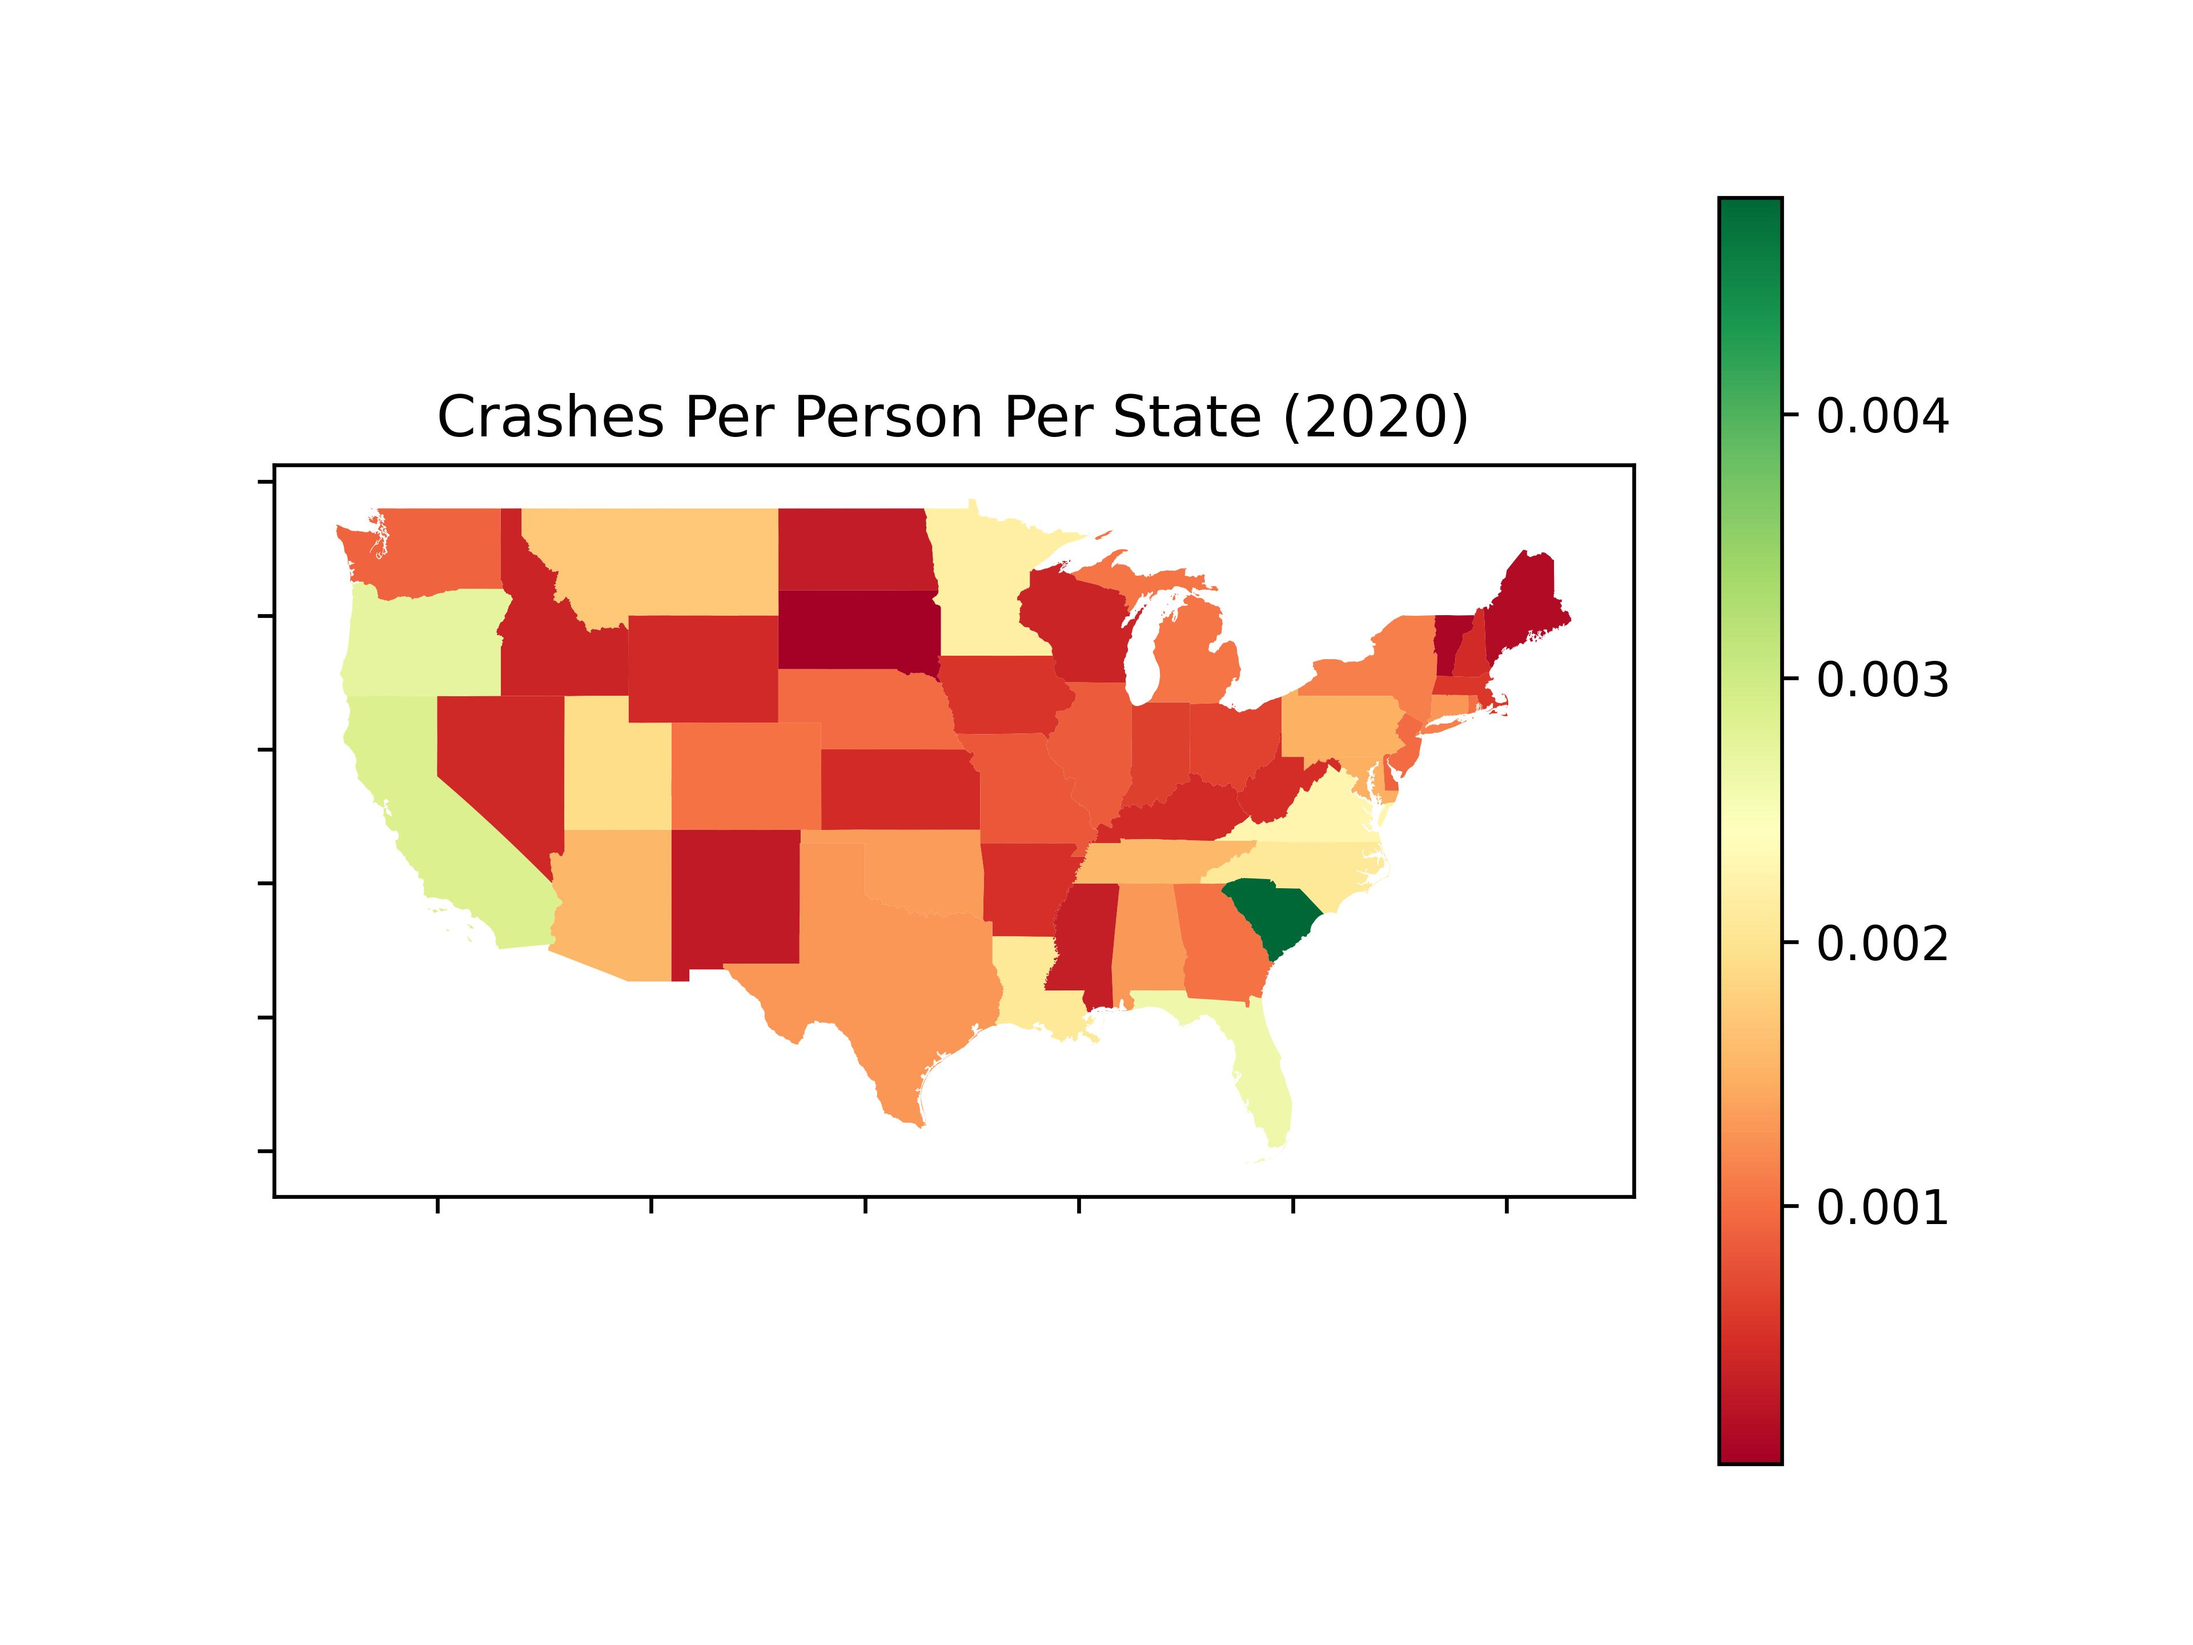
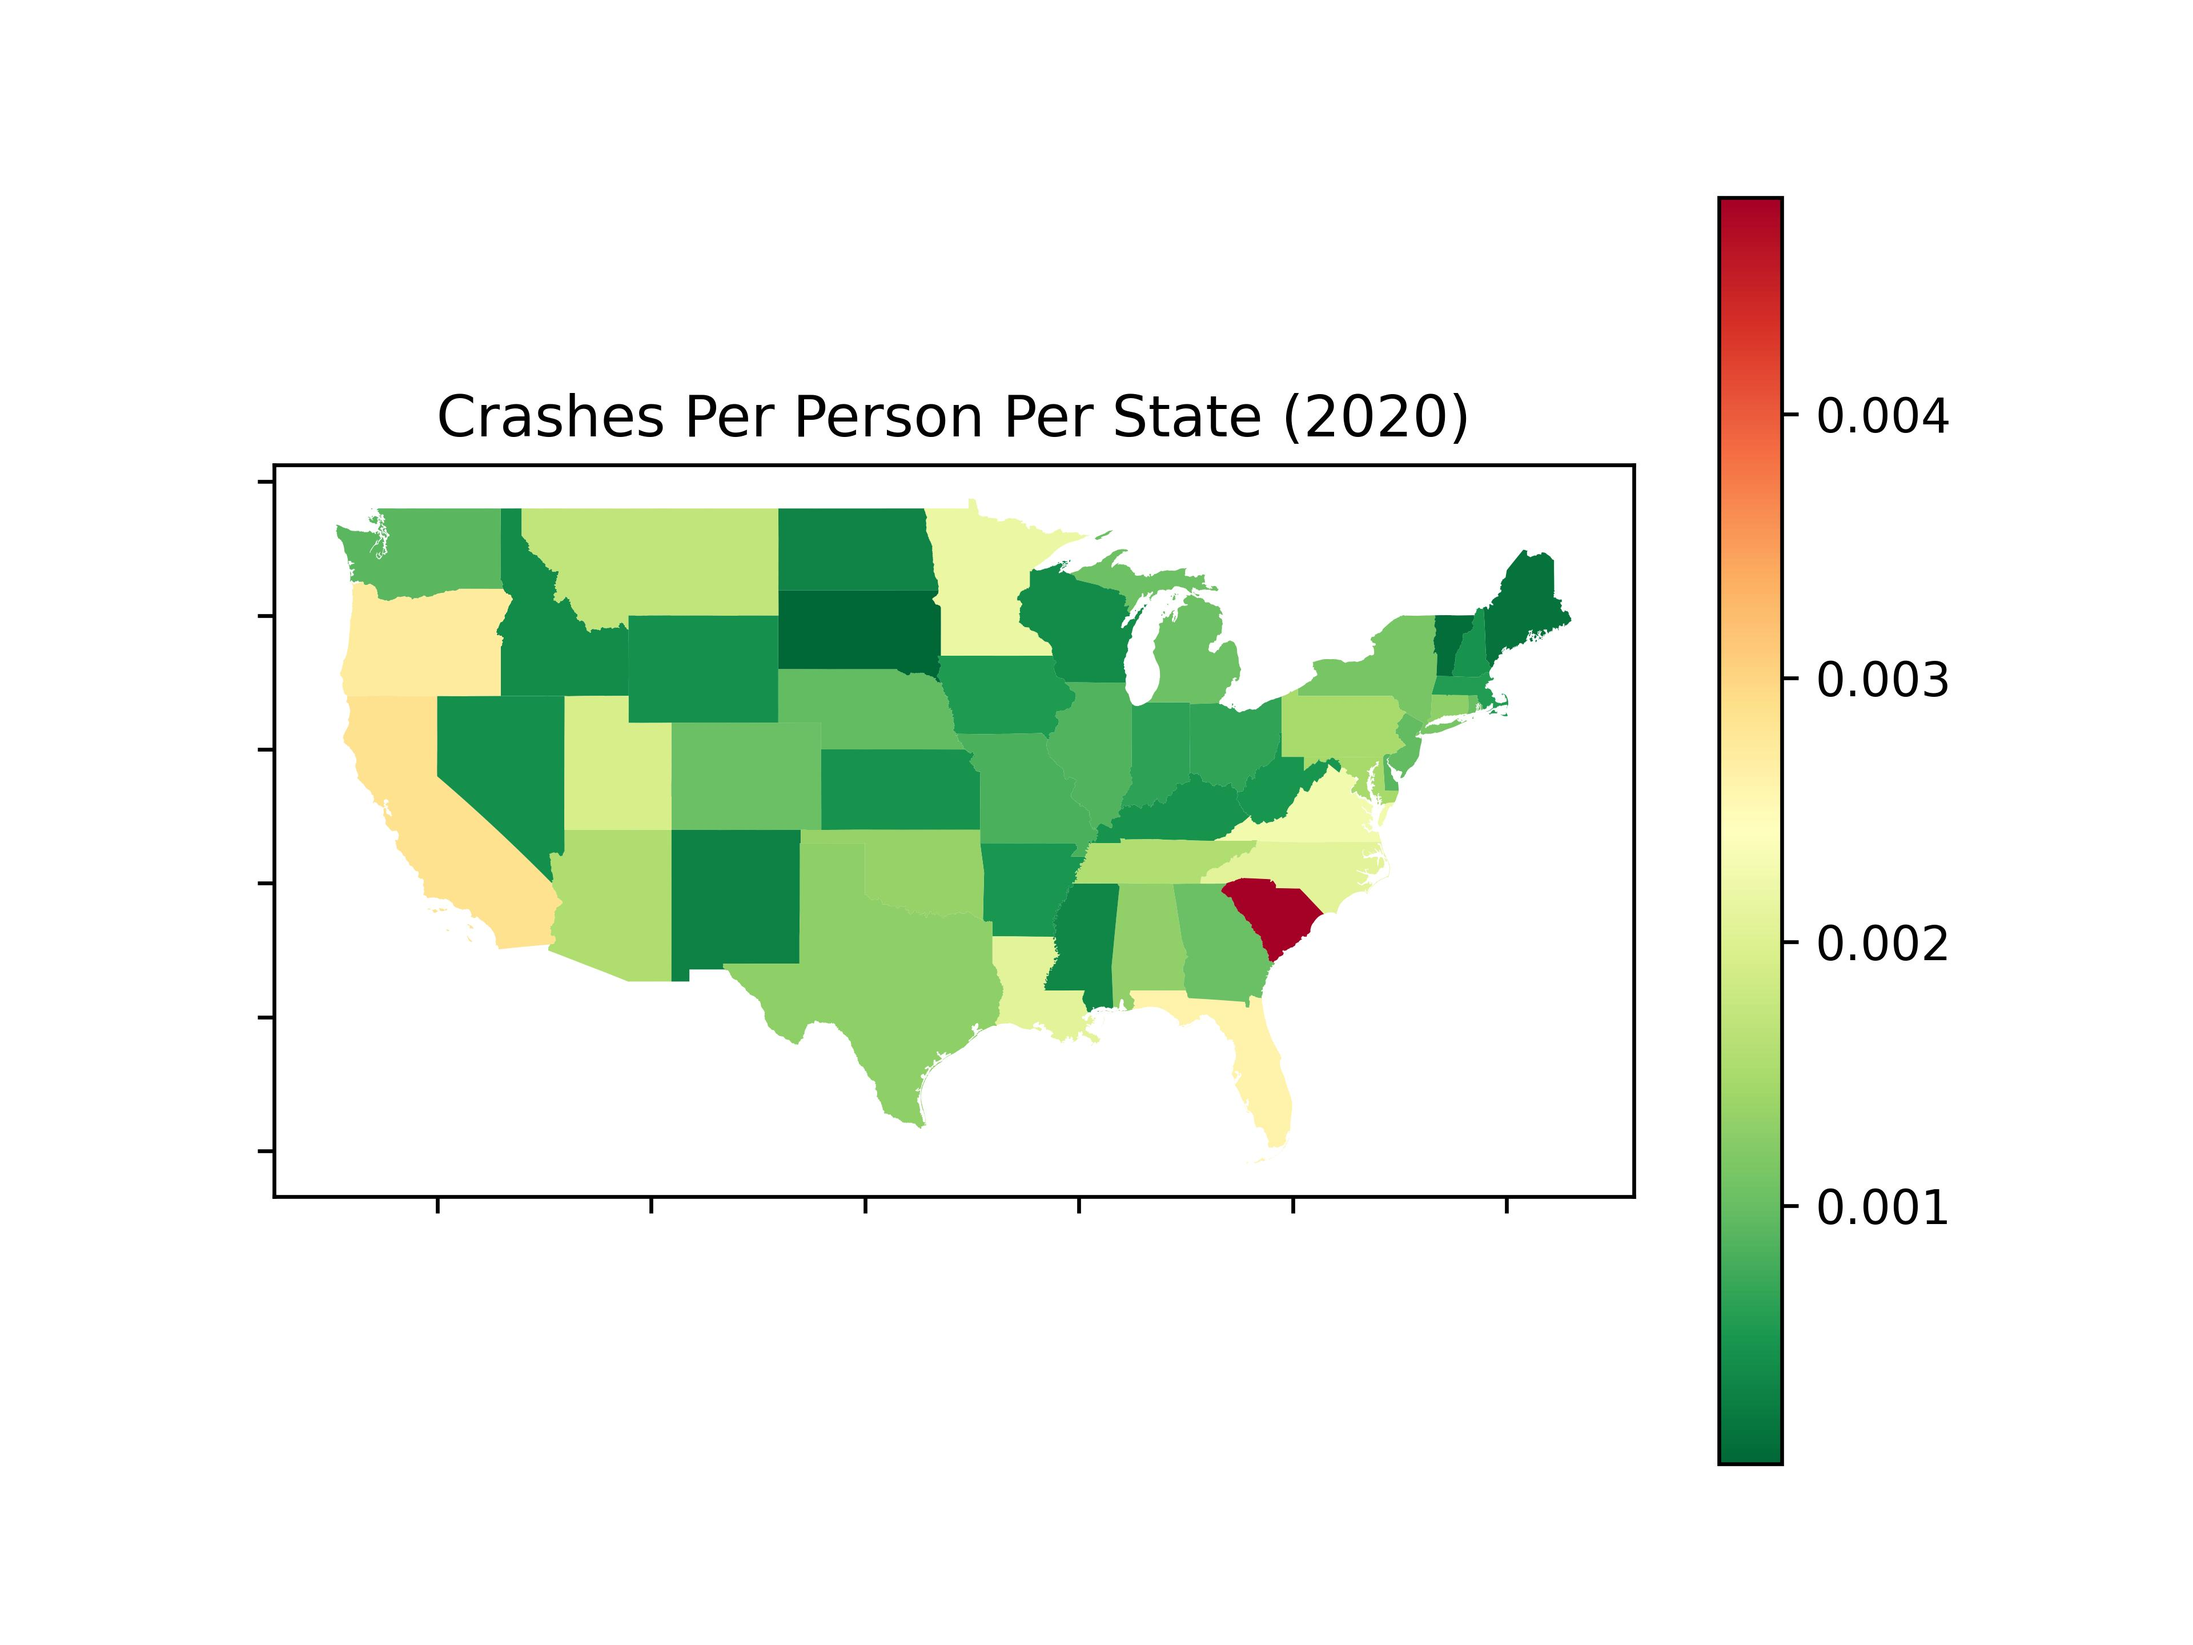
laptop update

Changed region(s): [[0.1562, 0.2812, 0.7188, 0.6875], [0.7812, 0.5312, 0.8125, 0.9062], [0.7812, 0.0938, 0.8125, 0.4688]]

diff --git a/graphs.py b/graphs.py
@@ -72,7 +72,7 @@ def makeGraphs(df,country,highgdf):
     ax.set_yticklabels([])
     ax.set_xticklabels([])
     plt.title('Crash Locations in the US visualized February 2016 to Dec 2020')
-    gdf2.plot(aspect=1,ax=ax,markersize=0.1,cmap='RdYlGn') #column="POP2010"
+    gdf2.plot(aspect=1,ax=ax,markersize=0.1,cmap='RdYlGn_r') #column="POP2010"
     plt.savefig('america.jpg', dpi=600)
 
     #show crashes per state
@@ -87,7 +87,7 @@ def makeGraphs(df,country,highgdf):
     #turn off tick lables, as they aren't usefull
     ax.set_yticklabels([])
     ax.set_xticklabels([])
-    country2.plot(column = 'ID',ax=ax,legend=True,cmap="RdYlGn")
+    country2.plot(column = 'ID',ax=ax,legend=True,cmap="RdYlGn_r")
 
     #plt.xlabel('x label')
     #plt.ylabel('y label')
@@ -107,7 +107,7 @@ def makeGraphs(df,country,highgdf):
     #turn off tick lables, as they aren't usefull
     ax.set_yticklabels([])
     ax.set_xticklabels([])
-    country2.plot(column = 'crashsesperpop',ax=ax,legend=True,cmap="RdYlGn")
+    country2.plot(column = 'crashsesperpop',ax=ax,legend=True,cmap="RdYlGn_r")
     plt.title('Crashes Per Person Per State (2020)')
     plt.savefig('statesadjusted.jpg', dpi=600)
 
@@ -130,12 +130,17 @@ def makeGraphs(df,country,highgdf):
         else:
             return out
     
-    def addlabels(x,y):
+    def addlabels(x,y,check={0}):
         for i in range(len(x)):
+            c='black'
             loc = y[i]
-            if i == 0:
+            if i in check:
                 loc = loc //2
-            plt.text(i, loc, x[i] + f" ({y[i]})",rotation = 90,ha = 'center',va='bottom')
+                c='white'
+                if i == 2:
+                    loc = loc //6
+            plt.text(i, loc, x[i] + f" ({y[i]})",rotation = 90,ha = 'center',va='bottom',color=c)
+    
     common["Name"] = common.apply(makename,axis=1)
     common2 = common.nlargest(10, 'count')
     fig, ax = plt.subplots()
@@ -150,11 +155,13 @@ def makeGraphs(df,country,highgdf):
     #TODO FIX FIX FIX FIX FIX 
 
     common3=common.drop(common[common['Name'] == 'Nothing'].index)
+    common3 = common3.nlargest(10, 'count').reset_index()
     fig, ax = plt.subplots()
     #plt.xticks(rotation=90)
     ax.set_xticklabels([])
     plt.title('10 most common elements near a crash February 2016 to Dec 2020')
-    addlabels(common3["Name"], common3['count'])
+
+    addlabels(common3["Name"], common3['count'],{0,1,2})
     plt.ylabel('Crash Count')
     ax.bar(common3["Name"], common3['count'])#, label=bar_labels, color=bar_colors
     plt.savefig('situations2.jpg', dpi=600)
@@ -163,24 +170,24 @@ def makeGraphs(df,country,highgdf):
     #Interactive Graphs
     #TODO probably better to make this a regular graph 
     #would be nice to take the ones below 5% and plot them on a different pie, cuz its so small, while unifying them in the bigger pie
+    fig = go.Figure()
+    
     temp = df['Visibility(mi)'].value_counts()
     
-    
+    #parent child count
     temp = temp.reset_index()
+    print(temp)
     temp["adjustedval"] = temp["Visibility(mi)"]
-    temp["adjustedval"]=temp["adjustedval"].apply(lambda x : round(min(x,10), 0))
-    print(temp.head())
+    temp["adjustedval"]=temp["adjustedval"].apply(lambda x : round(min(x,10), 0) if x != round(min(x,10), 0) else "")
+    temp["adjustedval2"] = temp["Visibility(mi)"]
+    temp["adjustedval2"]=temp["adjustedval2"].apply(lambda x : round(x, 2))
+    print(temp)
     temp = temp.rename(columns={"count": "specific_count"})
-    print(temp.head())
-    temp2 = temp
-    temp = temp.groupby('adjustedval')['specific_count'].sum().reset_index()
-    #TODO merge the unique 'visibility' vals back into temp
-    print(temp.head())
-    #fig = px.pie(temp, values='specific_count', names="adjustedval", title='Percentage of Accidents per Visibility')
+    print(temp)
     fig = px.sunburst(
     temp,
-    names='adjustedval',
-    parents='parent',
+    names='Visibility(mi)',
+    parents='adjustedval',
     values='specific_count',
     )
     
@@ -191,7 +198,8 @@ def makeGraphs(df,country,highgdf):
     #fig = px.violin(df, x='Severity', y='Visibility(mi)') #, render_mode='webgl'
     #fig.update_traces(marker_color='green')
     #TODO uncomment fig.show()
-
+    plt.close('all')
+    return
     fig = go.Figure()
     names = ['Temperature(F)','Wind_Chill(F)','Humidity(%)','Pressure(in)',
         'Visibility(mi)','Wind_Speed(mph)','Precipitation(in)'] #,'Sunrise_Sunset','Start_Lat','Start_Lng','Start_Time'
